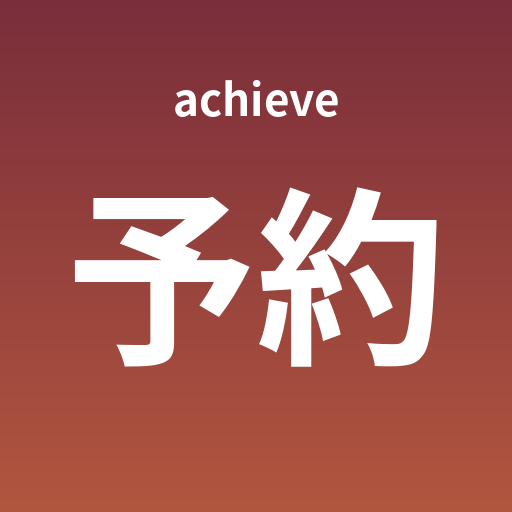
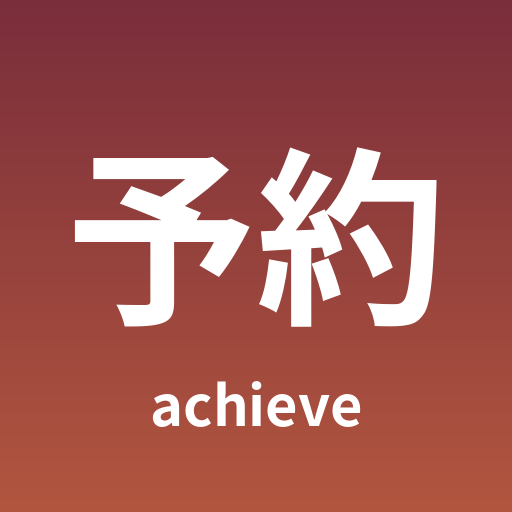
Add files via upload

diff --git a/reserve.html b/reserve.html
@@ -4,8 +4,8 @@
 <meta charset="utf-8">
 <meta name="viewport" content="width=device-width, initial-scale=1, viewport-fit=cover">
 <meta name="theme-color" content="#7a2e3b">
-<link rel="apple-touch-icon" href="reserve-icon.png?v=1">
-<link rel="icon" href="reserve-icon.png?v=1">
+<link rel="apple-touch-icon" href="reserve-icon.png?v=2">
+<link rel="icon" href="reserve-icon.png?v=2">
 <meta name="apple-mobile-web-app-capable" content="yes">
 <meta name="apple-mobile-web-app-title" content="予約">
 <title>achieve 予約</title>
